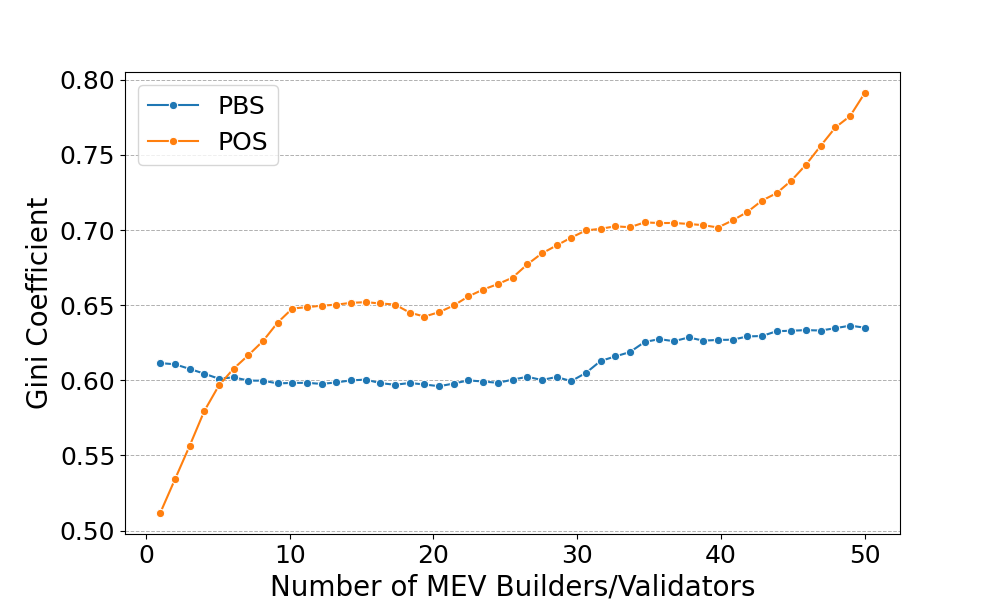
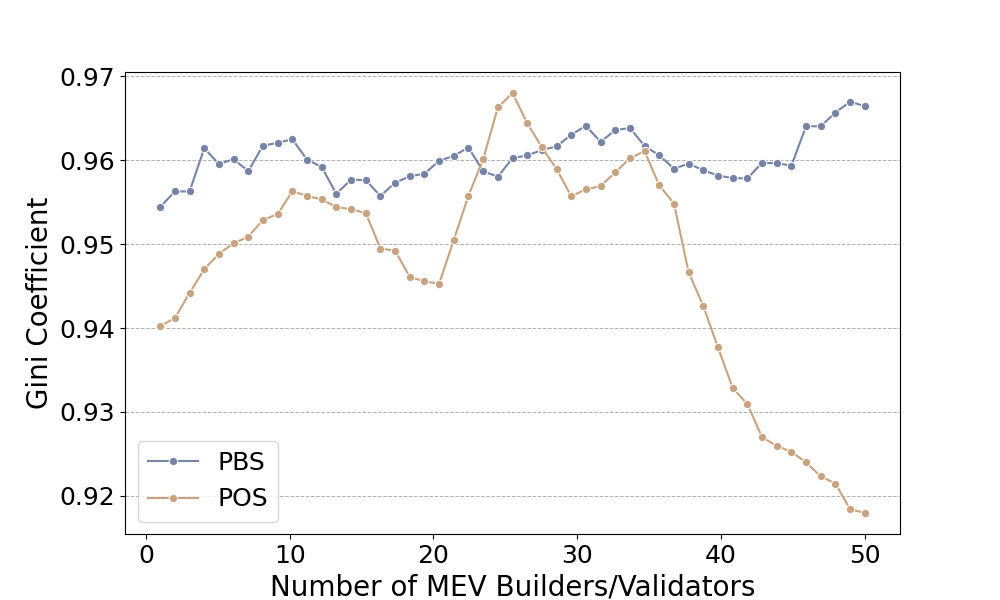
colour

diff --git a/plots/new/vary_mev_plots.py b/plots/new/vary_mev_plots.py
@@ -6,6 +6,9 @@ from scipy.signal import savgol_filter
 from scipy.interpolate import interp1d
 import os
 
+# Define the colors from the provided image
+color_palette = ["#7584A6", "#C9A27F"]
+
 def compute_gini(array):
     """Compute the Gini coefficient of a numpy array."""
     array = array.flatten()
@@ -27,12 +30,8 @@ def load_profits(data_dir, mev_counts):
             pbs_df = pd.read_csv(pbs_dir)
             pos_df = pd.read_csv(pos_dir)
 
-            pbs_profits = pbs_df.groupby('creator_id')['fee'].sum().values
-            pos_profits = pos_df.groupby('creator_id')['fee'].sum().values
-
-            # Remove negative profits
-            pbs_profits = pbs_profits[pbs_profits >= 0]
-            pos_profits = pos_profits[pos_profits >= 0]
+            pbs_profits = pbs_df[['creator_id', 'fee', 'type_of_user']]
+            pos_profits = pos_df[['creator_id', 'fee', 'type_of_user']]
 
             profits['pbs'][mev_count] = pbs_profits
             profits['pos'][mev_count] = pos_profits
@@ -55,7 +54,7 @@ def plot_gini_coefficient(data_dir, mev_counts):
     for system in ['pbs', 'pos']:
         for mev_count in mev_counts:
             if mev_count in profits[system]:
-                gini_coefficients[system][mev_count] = compute_gini(profits[system][mev_count])
+                gini_coefficients[system][mev_count] = compute_gini(profits[system][mev_count]['fee'].values)
 
     gini_pbs = [gini_coefficients['pbs'].get(mc, np.nan) for mc in mev_counts]
     gini_pos = [gini_coefficients['pos'].get(mc, np.nan) for mc in mev_counts]
@@ -70,8 +69,8 @@ def plot_gini_coefficient(data_dir, mev_counts):
     x_pos_new, y_pos_new = interpolate_and_add_noise(mev_counts, smooth_gini_pos, num_points=49)
 
     fig, ax = plt.subplots(figsize=(10, 6))
-    sns.lineplot(x=x_pbs_new, y=y_pbs_new, marker='o', label='PBS', ax=ax)
-    sns.lineplot(x=x_pos_new, y=y_pos_new, marker='o', label='POS', ax=ax)
+    sns.lineplot(x=x_pbs_new, y=y_pbs_new, marker='o', label='PBS', ax=ax, color=color_palette[0])
+    sns.lineplot(x=x_pos_new, y=y_pos_new, marker='o', label='POS', ax=ax, color=color_palette[1])
 
     ax.set_xlabel('Number of MEV Builders/Validators', fontsize=20)
     ax.set_ylabel('Gini Coefficient', fontsize=20)
@@ -93,13 +92,13 @@ def plot_profit_distribution(data_dir, mev_counts_to_plot):
     systems = ['pbs', 'pos']
 
     for i, mev_count in enumerate(mev_counts_to_plot):
-        for system in systems:
+        for system, color in zip(systems, color_palette):
             if mev_count in profits[system]:
-                valid_profits = profits[system][mev_count][profits[system][mev_count] >= 0]
+                valid_profits = profits[system][mev_count]['fee'].values
                 valid_profits = valid_profits[valid_profits >= 0]  # Ensure no negative values
-                print(f"{system.upper()} MEV {mev_count} valid profits: {valid_profits}")  # Debug print
+                print(f"{system.upper()} MEV {mev_count} valid profits: {valid_profits}")
                 if len(valid_profits) > 0:
-                    sns.kdeplot(valid_profits, ax=axes[i], label=system.upper())
+                    sns.kdeplot(valid_profits, ax=axes[i], label=system.upper(), color=color)
 
         axes[i].set_title(f'MEV Builders/Validators = {mev_count}', fontsize=20)
         axes[i].set_xlabel('Profit', fontsize=20)
@@ -111,6 +110,34 @@ def plot_profit_distribution(data_dir, mev_counts_to_plot):
     plt.savefig('figures/new/profit_distribution_comparison.png')
     plt.close()
 
+def plot_profit_distribution_violin(data_dir, mev_counts_to_plot):
+    profits = load_profits(data_dir, mev_counts_to_plot)
+    
+    fig, axes = plt.subplots(1, 3, figsize=(18, 6))
+
+    for i, mev_count in enumerate(mev_counts_to_plot):
+        if mev_count in profits['pbs'] and mev_count in profits['pos']:
+            pbs_profits = profits['pbs'][mev_count].copy()
+            pos_profits = profits['pos'][mev_count].copy()
+
+            pbs_profits['type'] = 'PBS'
+            pos_profits['type'] = 'POS'
+
+            combined_profits = pd.concat([pbs_profits, pos_profits], ignore_index=True)
+            combined_profits['log_fee'] = np.log1p(combined_profits['fee'])  # Log-transform the fee
+
+            sns.violinplot(data=combined_profits, x='type_of_user', y='log_fee', hue='type', split=True, inner='quart', ax=axes[i], palette=color_palette)
+            axes[i].set_title(f'MEV Count = {mev_count}', fontsize=20)
+            axes[i].set_xlabel('Participant Type', fontsize=18)
+            axes[i].set_ylabel('Log Profit', fontsize=18 if i == 0 else 0)
+            axes[i].legend(title='Type', fontsize=16)
+            axes[i].tick_params(axis='both', which='major', labelsize=14)
+            axes[i].grid(True, axis='y')
+
+    plt.tight_layout()
+    plt.savefig('figures/new/violin_plot_profit_distribution.png')
+    plt.close()
+
 if __name__ == "__main__":
     data_dir = 'data/vary_mev'
     mev_counts = [1, 5, 10, 15, 20, 25, 30, 35, 40, 45, 50]
@@ -118,3 +145,4 @@ if __name__ == "__main__":
 
     mev_counts_to_plot = [1, 25, 50]
     plot_profit_distribution(data_dir, mev_counts_to_plot)
+    plot_profit_distribution_violin(data_dir, mev_counts_to_plot)
